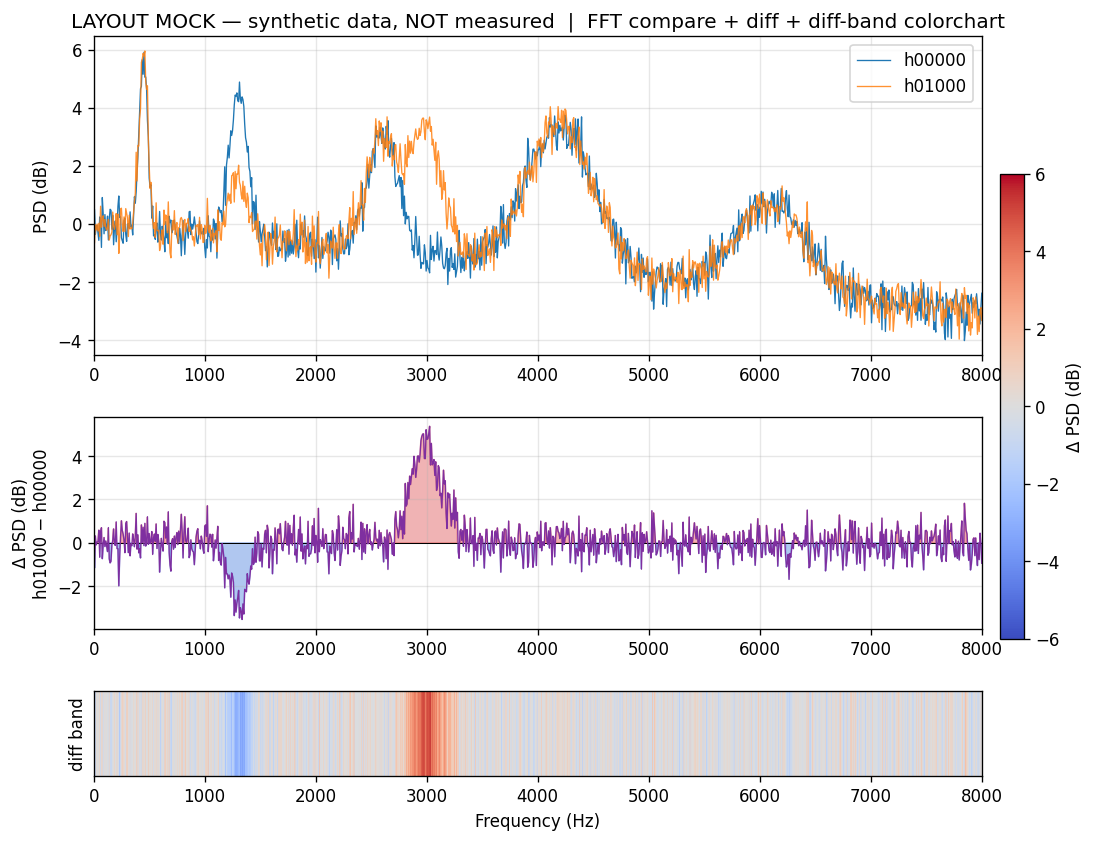
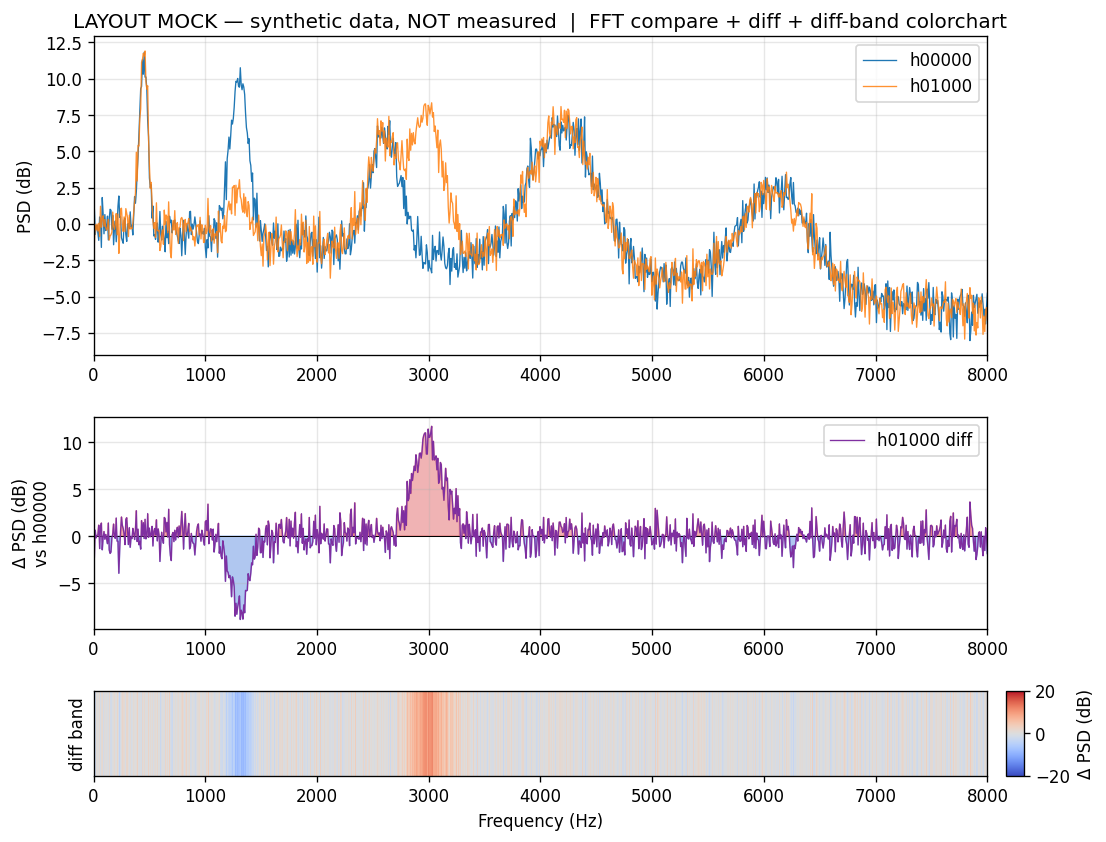
docs(figures): 1ペア版 fftdiff_band を pair 図と同一基準に統一
gen_fftdiff_band.py の composite() を gen_fftdiff_band_pair.py で確定した
基準に合わせて更新し、MOCK と実データ版 (h00000 vs h01000) を再生成:
- カラーバーは最下段の帯の横にのみ配置 (gridspec 2 列化で x 軸整列維持)
- diff 線に凡例 'h01000 diff'、ylabel を 'vs h00000' 形式に
- 帯は interpolation=nearest (y 方向一様)
- 色域 ±6 → ±20 dB (全図共通基準)
- MOCK の合成振幅を実測の 1 ビット状態差相当 (diff ±10 dB 級) に拡大し、
  ±20 dB 色域でも帯に色が乗るスケールに調整

diff --git a/pc/gen_fftdiff_band.py b/pc/gen_fftdiff_band.py
@@ -33,7 +33,7 @@ import numpy as np
 
 FMAX_HZ = 8000.0   # 表示上限 (16 kHz / 2)
 DIVERGE_CMAP = "coolwarm"
-DIVERGE_CLIM = 6.0  # ±dB (参考図 delta_v6_vs_v1_5.png に合わせる)
+DIVERGE_CLIM = 20.0  # ±dB (gen_fftdiff_band_pair.py と同一基準。小変化の視認性優先)
 
 
 def load_wav(path: Path):
@@ -64,10 +64,12 @@ def composite(freqs, psd0_db, psd1_db, title, out_path: Path,
     diff = psd1_db - psd0_db
 
     fig = plt.figure(figsize=(10, 8))
-    gs = fig.add_gridspec(3, 1, height_ratios=[3, 2, 0.8], hspace=0.30)
+    # 右列はカラーバー専用 (最下段のみ使用)。主要 3 軸の幅を揃えて x 軸を整列させる
+    gs = fig.add_gridspec(3, 2, height_ratios=[3, 2, 0.8],
+                          width_ratios=[1, 0.02], hspace=0.30, wspace=0.04)
 
     # 段1: FFT 重ね描き
-    ax0 = fig.add_subplot(gs[0])
+    ax0 = fig.add_subplot(gs[0, 0])
     ax0.plot(freqs, psd0_db, lw=0.8, color="#1f77b4", label=label0)
     ax0.plot(freqs, psd1_db, lw=0.8, color="#ff7f0e", label=label1, alpha=0.85)
     ax0.set_ylabel("PSD (dB)")
@@ -76,26 +78,28 @@ def composite(freqs, psd0_db, psd1_db, title, out_path: Path,
     ax0.grid(True, alpha=0.3)
     ax0.set_xlim(0, FMAX_HZ)
 
-    # 段2: 差分線
-    ax1 = fig.add_subplot(gs[1], sharex=ax0)
+    # 段2: 差分線 (= noise_diff 特徴量)
+    ax1 = fig.add_subplot(gs[1, 0], sharex=ax0)
     ax1.axhline(0, color="k", lw=0.6)
-    ax1.plot(freqs, diff, lw=0.8, color="#7f2fa0")
+    ax1.plot(freqs, diff, lw=0.8, color="#7f2fa0", label=f"{label1} diff")
     ax1.fill_between(freqs, diff, 0, where=diff >= 0, color="#d62728", alpha=0.35)
     ax1.fill_between(freqs, diff, 0, where=diff < 0, color="#1f5fd6", alpha=0.35)
-    ax1.set_ylabel(f"Δ PSD (dB)\n{label1} − {label0}")
+    ax1.set_ylabel(f"Δ PSD (dB)\nvs {label0}")
+    ax1.legend(loc="upper right")
     ax1.grid(True, alpha=0.3)
     ax1.set_xlim(0, FMAX_HZ)
 
-    # 段3: diff の帯カラーチャート (1 行ヒートマップ)
-    ax2 = fig.add_subplot(gs[2], sharex=ax0)
+    # 段3: diff の帯カラーチャート (1 行ヒートマップ、y 方向一様)
+    ax2 = fig.add_subplot(gs[2, 0], sharex=ax0)
     band = diff[np.newaxis, :]
     im = ax2.imshow(band, aspect="auto", cmap=DIVERGE_CMAP,
                     vmin=-DIVERGE_CLIM, vmax=DIVERGE_CLIM,
-                    extent=[0, FMAX_HZ, 0, 1])
+                    extent=[0, FMAX_HZ, 0, 1], interpolation="nearest")
     ax2.set_yticks([])
     ax2.set_xlabel("Frequency (Hz)")
     ax2.set_ylabel("diff band")
-    cbar = fig.colorbar(im, ax=[ax0, ax1, ax2], fraction=0.025, pad=0.02)
+    cax = fig.add_subplot(gs[2, 1])
+    cbar = fig.colorbar(im, cax=cax)
     cbar.set_label("Δ PSD (dB)")
 
     fig.savefig(out_path, dpi=120, bbox_inches="tight")
@@ -106,25 +110,27 @@ def composite(freqs, psd0_db, psd1_db, title, out_path: Path,
 def make_mock():
     """合成 PSD でレイアウトを確認するためのモック (実測ではない)。
 
-    s00000 = フラット白色雑音が室共鳴で色付いた想定 (緩い包絡 + 数本の共鳴ピーク)。
-    s00001 = s00000 とほぼ同じだが、扉1枚開で一部のモードが移動/増減した想定。
+    h00000 = フラット白色雑音が室共鳴で色付いた想定 (緩い包絡 + 数本の共鳴ピーク)。
+    h01000 = h00000 とほぼ同じだが、扉1枚開で一部のモードが移動/増減した想定。
     → diff は大部分 0 付近、局所的にだけ立つ = 「特徴だけ分離」を表現。
+    振幅は実測の 1 ビット状態差 (diff ±10 dB 級) に合わせ、±20 dB 色域でも
+    帯カラーチャートに色が乗るスケールにしてある。
     """
     freqs = np.linspace(0, 8000, 1024)
     rng = np.random.default_rng(12345)
 
     def resonances(peaks):
-        y = -3.0 * (freqs / 8000.0)  # 緩い高域ロールオフ
+        y = -6.0 * (freqs / 8000.0)  # 緩い高域ロールオフ
         for f0, amp, q in peaks:
             y += amp * np.exp(-0.5 * ((freqs - f0) / (f0 / q)) ** 2)
-        y += rng.normal(0, 0.4, freqs.shape)  # 測定ばらつき相当
+        y += rng.normal(0, 0.8, freqs.shape)  # 測定ばらつき相当
         return y
 
-    base = [(450, 6, 12), (1300, 5, 16), (2600, 4, 18), (4200, 5, 14), (6100, 3, 20)]
+    base = [(450, 12, 12), (1300, 11, 16), (2600, 8, 18), (4200, 10, 14), (6100, 7, 20)]
     psd0 = resonances(base)
-    # s00001: 1300Hz のモードが弱まり、3000Hz 付近に新たなモードが出る想定
-    mod = [(450, 6, 12), (1300, 2.0, 16), (2600, 4, 18),
-           (3000, 4.5, 22), (4200, 5, 14), (6100, 3, 20)]
+    # h01000: 1300Hz のモードが弱まり、3000Hz 付近に新たなモードが出る想定
+    mod = [(450, 12, 12), (1300, 3.0, 16), (2600, 8, 18),
+           (3000, 10.0, 22), (4200, 10, 14), (6100, 7, 20)]
     psd1 = resonances(mod)
     return freqs, psd0, psd1
 
